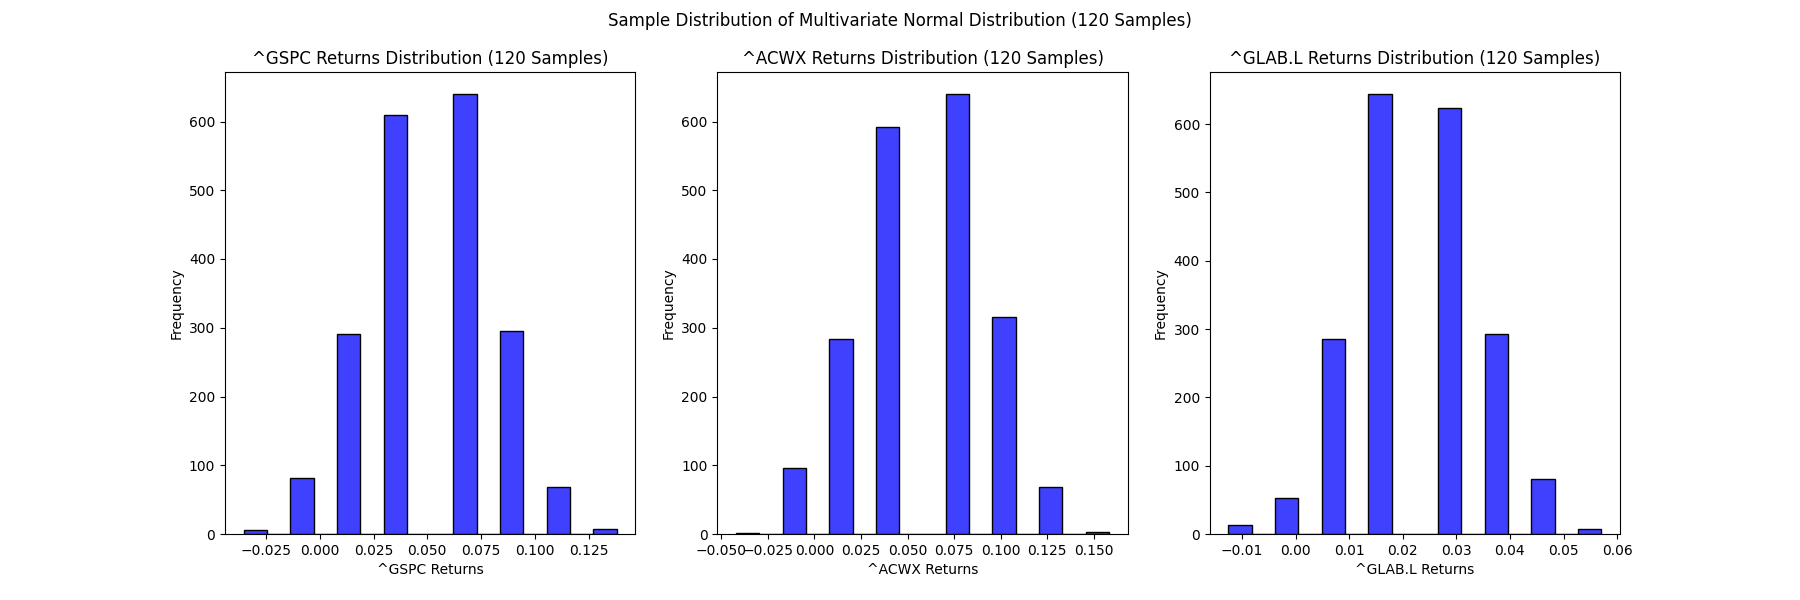
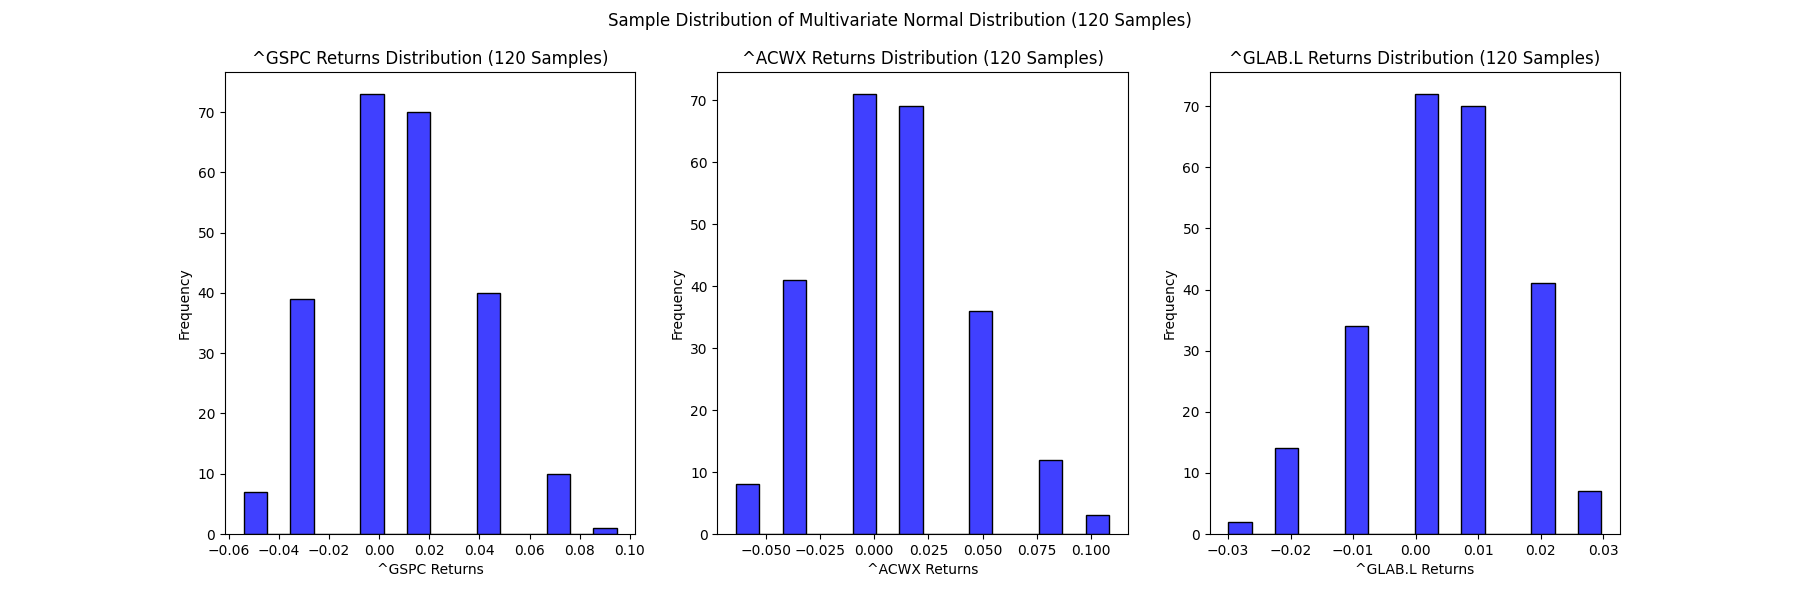
Excel files no longer both show percent returns

diff --git a/src/QuantumPerformanceSimulation.py b/src/QuantumPerformanceSimulation.py
@@ -112,7 +112,7 @@ for i, asset in enumerate(data._tickers):
 
 fig.suptitle('Sample Distribution of Multivariate Normal Distribution (120 Samples)')
 plt.savefig("graphs/gen_output.png")
-simulated_percent_returns = np.array(np.exp(generated_Data._data) - 1)
+simulated_percent_returns = np.array(np.exp(asset_samples) - 1)
 
 util.create_new_xlsx_monthly_dates(simulated_percent_returns, filename="data/percentage_output.xlsx",secondTime=1)
 
@@ -122,10 +122,10 @@ generated_percent_data = StockDataProcessor(
     end=datetime.datetime(2044, 11, 30),
     file_path="data/percentage_output.xlsx"
 )
-generated_percent_data.run()
-
-generated_percent_data.print_stats()
-
+generated_percent_data.run_nonlog()
+print("Generated Percent Data (Compare with the above)")
+print(generated_percent_data._data)
+"""
 portfolio_returns = generated_percent_data._data.dot(annual_expected_returns)
 
 annual_portfolio_return = (1 + portfolio_returns).prod() ** (12 / generated_Data._data.shape[0]) - 1
@@ -145,6 +145,7 @@ print("annual_portfolio_volatility: ",annual_portfolio_volatility)
 print("sharpe_ratio: ",sharpe_ratio)
 print("max_drawdown: ", max_drawdown)
 print("calmar_ratio: ",calmar_ratio)
+"""
 
 # Plot the generated percent returns
 fig, axes = plt.subplots(1, 3, figsize=(18, 6))
@@ -164,5 +165,3 @@ target_weights = {
 }
 frequency = 'quarterly'  # Choose from 'monthly', 'quarterly', 'semi-annual', 'annual'
 generated_percent_data.rebalance_portfolio_over_time(target_weights, frequency, 0) # change to 1 to see prints
-
-print(generated_percent_data._data)

diff --git a/src/StockDataProcessor.py b/src/StockDataProcessor.py
@@ -55,6 +55,12 @@ class StockDataProcessor(BaseDataProvider):
         self.get_stddev()
         self.get_correlation()
         self.get_volatility()
+    def run_nonlog(self) -> None:
+        # Load data from the Excel file
+        df = self.load_data()
+        self._data = df
+        # Calculate log returns for all tickers
+        # Drop rows with NaN values (e.g., first row due to shift)
 
     def get_mean_vector(self):
         if self._data.empty:
